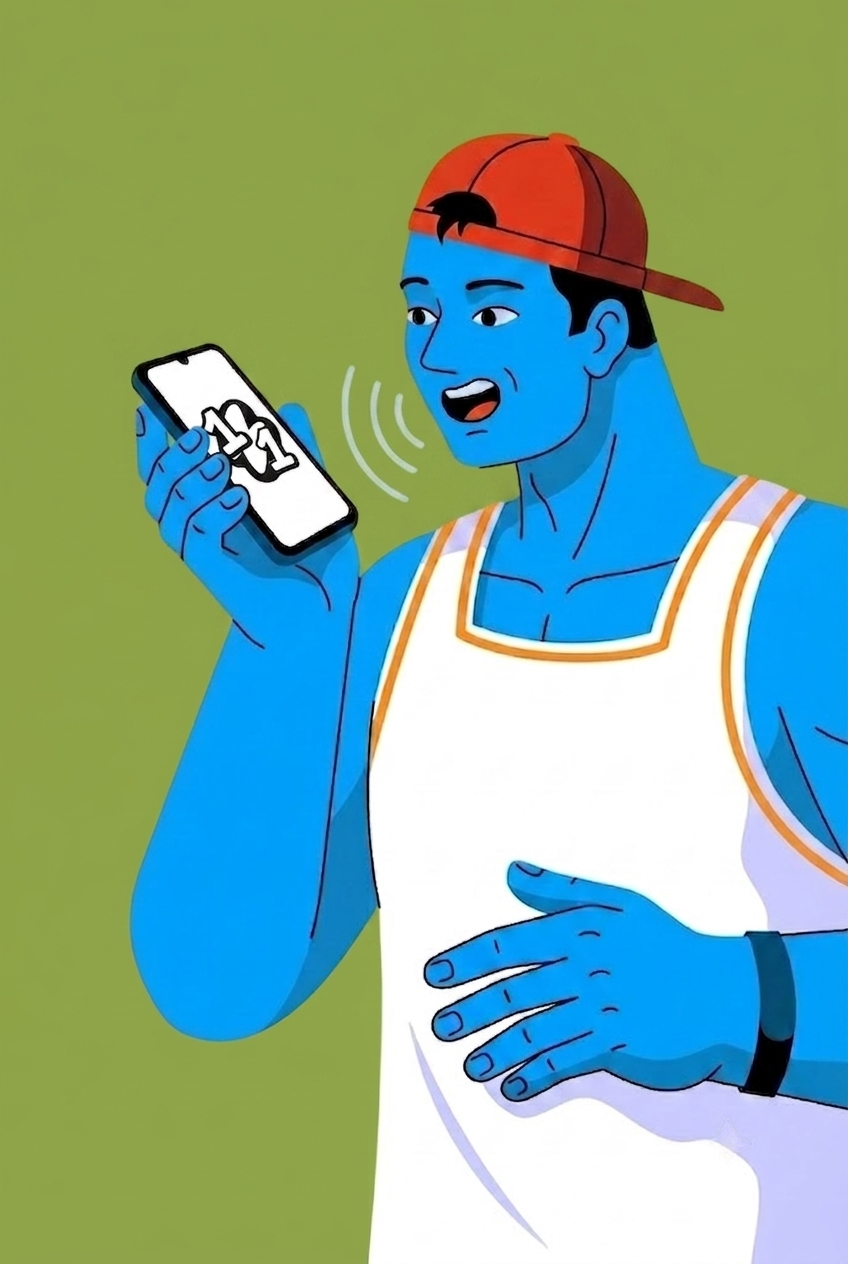
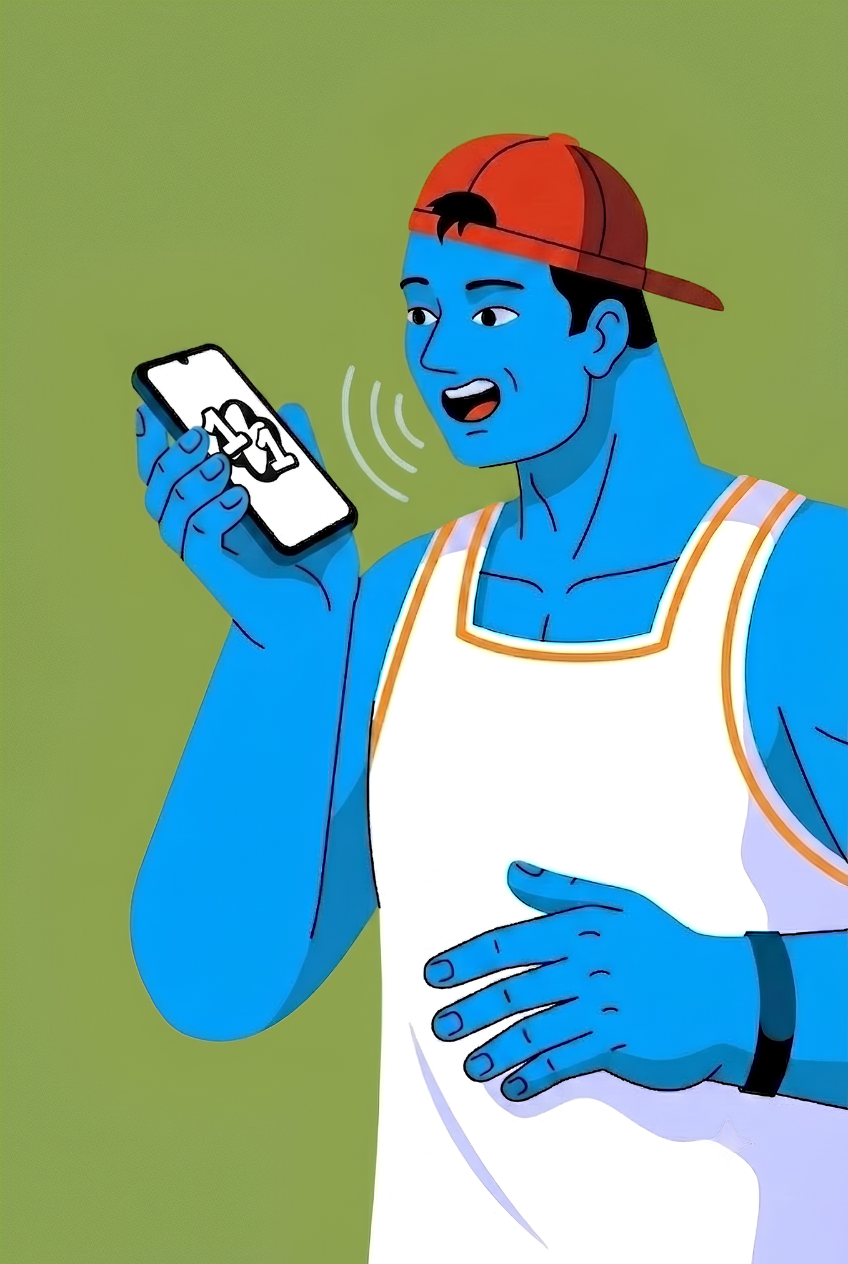
Polish Duo branding and home/settings UI.
Rename remaining One One copy to Duo, refresh onboarding art, expand accent colors, and tweak home status/presence and bubble layout.

diff --git a/app/lib/features/identity/ui/identity_home_screen.dart b/app/lib/features/identity/ui/identity_home_screen.dart
@@ -3015,11 +3015,13 @@ class _IdentityHomeScreenState extends State<IdentityHomeScreen>
                         // Middle band: ephemeral bubbles sit here (own=right,
                         // others=left). Empty Expanded keeps layout stable so
                         // the feed doesn't jump the carousel when it appears.
+                        // Align to bottom so bubbles sit lower (near the status
+                        // hint) instead of floating mid-screen.
                         Expanded(
                           child: Padding(
                             padding: EdgeInsets.symmetric(horizontal: 16.w),
                             child: Align(
-                              alignment: Alignment.center,
+                              alignment: Alignment.bottomCenter,
                               child: SingleChildScrollView(
                                 reverse: true,
                                 physics: const ClampingScrollPhysics(),
@@ -3520,21 +3522,21 @@ class _StatusToggle extends StatelessWidget {
             ? 'Tap to go away'
             : 'Go online when someone is already live, or send a nudge to go together',
         child: SizedBox(
-          width: 72.w,
-          height: 48,
+          width: 58.w,
+          height: 40,
           child: Material(
             color: Colors.transparent,
             child: InkWell(
               onTap: busy || !enabled ? null : onToggle,
-              borderRadius: BorderRadius.circular(24),
+              borderRadius: BorderRadius.circular(20),
               child: Center(
                 child: Container(
                   width: double.infinity,
-                  height: 30.h,
+                  height: 24.h,
                   padding: EdgeInsets.all(2.w),
                   decoration: BoxDecoration(
                     color: const Color.fromRGBO(255, 255, 255, 0.12),
-                    borderRadius: BorderRadius.circular(18.r),
+                    borderRadius: BorderRadius.circular(14.r),
                     border: Border.all(
                       color: const Color.fromRGBO(255, 255, 255, 0.22),
                     ),
@@ -3548,13 +3550,13 @@ class _StatusToggle extends StatelessWidget {
                             ? Alignment.centerRight
                             : Alignment.centerLeft,
                         child: Container(
-                          width: 34.w,
+                          width: 26.w,
                           height: double.infinity,
                           decoration: BoxDecoration(
                             color: online
                                 ? const Color(0xff7CFF6B)
                                 : Colors.white,
-                            borderRadius: BorderRadius.circular(14.r),
+                            borderRadius: BorderRadius.circular(11.r),
                           ),
                         ),
                       ),
@@ -3563,24 +3565,24 @@ class _StatusToggle extends StatelessWidget {
                           Expanded(
                             child: Center(
                               // Matches the profile-picture away moon badge
-                              // (Icons.dark_mode_rounded @ ~9.sp).
+                              // (Icons.dark_mode_rounded @ ~13.sp).
                               child: Icon(
                                 Icons.dark_mode_rounded,
                                 color: online
                                     ? Colors.white54
                                     : const Color(0xff2a2a2a),
-                                size: 9.sp,
+                                size: 13.sp,
                               ),
                             ),
                           ),
                           Expanded(
                             child: Center(
                               child: busy
-                                  ? Text('…', style: TextStyle(fontSize: 11.sp))
+                                  ? Text('…', style: TextStyle(fontSize: 10.sp))
                                   : online
                                   ? Text(
                                       '🟢',
-                                      style: TextStyle(fontSize: 11.sp),
+                                      style: TextStyle(fontSize: 10.sp),
                                     )
                                   : const SizedBox.shrink(),
                             ),
@@ -3794,8 +3796,7 @@ class _FriendChip extends StatelessWidget {
                 right: -4,
                 bottom: -2,
                 // Away state uses a Material "dark mode" glyph inside a
-                // small circular badge (subtle shadow) instead of the old
-                // 🌙 emoji, sized down noticeably from the previous glyph.
+                // circular badge (subtle shadow) instead of the old 🌙 emoji.
                 // NOTE: no HTML/CSS reference file was available in this
                 // session, so colors are mapped to existing app tokens
                 // (avatar-chip background + white70 icon) rather than the
@@ -3804,8 +3805,8 @@ class _FriendChip extends StatelessWidget {
                 child: live
                     ? Text('🟢', style: TextStyle(fontSize: 14.sp))
                     : Container(
-                        width: 15.w,
-                        height: 15.w,
+                        width: 20.w,
+                        height: 20.w,
                         alignment: Alignment.center,
                         decoration: BoxDecoration(
                           shape: BoxShape.circle,
@@ -3821,7 +3822,7 @@ class _FriendChip extends StatelessWidget {
                         child: Icon(
                           Icons.dark_mode_rounded,
                           color: Colors.white70,
-                          size: 9.sp,
+                          size: 13.sp,
                         ),
                       ),
               ),

diff --git a/app/lib/features/identity/ui/settings_screen.dart b/app/lib/features/identity/ui/settings_screen.dart
@@ -707,25 +707,41 @@ class _SettingsScreenState extends State<SettingsScreen> {
                     subtitle: 'Choose the color used across Duo.',
                   ),
                   const SizedBox(height: 16),
-                  Wrap(
-                    spacing: 12,
-                    runSpacing: 12,
-                    children: [
-                      for (final option in accentOptions)
-                        _ColorSwatch(
-                          option: option,
-                          selected: _accentColorKey == option.key,
-                          enabled: !_saving,
-                          onSelected: () {
-                            setState(() {
-                              _accentColorKey = option.key;
-                              _hasUnsavedAccentPreview =
-                                  option.key != _persistedAccentColorKey;
-                            });
-                            AccentThemeController.setAccentKey(option.key);
-                          },
-                        ),
-                    ],
+                  // Two rows of six — 12 accents fill both runs on phone widths.
+                  LayoutBuilder(
+                    builder: (context, constraints) {
+                      const columns = 6;
+                      const spacing = 12.0;
+                      final swatchSize =
+                          (constraints.maxWidth - spacing * (columns - 1)) /
+                          columns;
+                      return Wrap(
+                        spacing: spacing,
+                        runSpacing: spacing,
+                        children: [
+                          for (final option in accentOptions)
+                            SizedBox(
+                              width: swatchSize,
+                              height: swatchSize,
+                              child: _ColorSwatch(
+                                option: option,
+                                selected: _accentColorKey == option.key,
+                                enabled: !_saving,
+                                onSelected: () {
+                                  setState(() {
+                                    _accentColorKey = option.key;
+                                    _hasUnsavedAccentPreview =
+                                        option.key != _persistedAccentColorKey;
+                                  });
+                                  AccentThemeController.setAccentKey(
+                                    option.key,
+                                  );
+                                },
+                              ),
+                            ),
+                        ],
+                      );
+                    },
                   ),
                   const _SurfaceDivider(),
                   SwitchListTile.adaptive(
@@ -1790,33 +1806,37 @@ class _ColorSwatch extends StatelessWidget {
         button: true,
         selected: selected,
         label: '${option.label} accent',
-        child: SizedBox.square(
-          dimension: 48,
-          child: InkWell(
-            onTap: enabled ? onSelected : null,
-            customBorder: const CircleBorder(),
-            child: Center(
-              child: AnimatedContainer(
-                duration: const Duration(milliseconds: 180),
-                width: 36,
-                height: 36,
-                decoration: BoxDecoration(
-                  color: option.color,
-                  shape: BoxShape.circle,
-                  border: Border.all(
-                    color: selected ? Colors.white : Colors.transparent,
-                    width: 3,
+        child: InkWell(
+          onTap: enabled ? onSelected : null,
+          customBorder: const CircleBorder(),
+          child: LayoutBuilder(
+            builder: (context, constraints) {
+              final side = constraints.biggest.shortestSide;
+              final circle = (side * 0.75).clamp(28.0, 40.0);
+              final checkSize = (circle * 0.53).clamp(14.0, 20.0);
+              return Center(
+                child: AnimatedContainer(
+                  duration: const Duration(milliseconds: 180),
+                  width: circle,
+                  height: circle,
+                  decoration: BoxDecoration(
+                    color: option.color,
+                    shape: BoxShape.circle,
+                    border: Border.all(
+                      color: selected ? Colors.white : Colors.transparent,
+                      width: 3,
+                    ),
                   ),
+                  child: selected
+                      ? Icon(
+                          Icons.check_rounded,
+                          color: Colors.black,
+                          size: checkSize,
+                        )
+                      : null,
                 ),
-                child: selected
-                    ? const Icon(
-                        Icons.check_rounded,
-                        color: Colors.black,
-                        size: 19,
-                      )
-                    : null,
-              ),
-            ),
+              );
+            },
           ),
         ),
       ),

diff --git a/app/lib/app/accent_theme.dart b/app/lib/app/accent_theme.dart
@@ -20,6 +20,11 @@ const List<AccentOption> accentOptions = [
   AccentOption(key: 'amber', label: 'Amber', color: Color(0xffffb020)),
   AccentOption(key: 'pink', label: 'Pink', color: Color(0xffec4899)),
   AccentOption(key: 'teal', label: 'Teal', color: Color(0xff00b8a9)),
+  AccentOption(key: 'indigo', label: 'Indigo', color: Color(0xff6366f1)),
+  AccentOption(key: 'orange', label: 'Orange', color: Color(0xffff7a3d)),
+  AccentOption(key: 'mint', label: 'Mint', color: Color(0xff34d399)),
+  AccentOption(key: 'yellow', label: 'Yellow', color: Color(0xffeab308)),
+  AccentOption(key: 'cyan', label: 'Cyan', color: Color(0xff22d3ee)),
 ];
 
 Color accentColorForKey(String key) {

diff --git a/app/lib/app/setup_permission_screen.dart b/app/lib/app/setup_permission_screen.dart
@@ -29,12 +29,12 @@ const Map<_SetupStep, _StepVisual> _stepVisuals = {
     backgroundAsset: 'assets/Onboarding1.png',
   ),
   _SetupStep.notification: _StepVisual(
-    iconColor: Color(0xffdb8a1e),
+    iconColor: Color(0xff7a4fc9),
     icon: Icons.notifications_rounded,
     backgroundAsset: 'assets/Onboarding3.png',
   ),
   _SetupStep.background: _StepVisual(
-    iconColor: Color(0xff7a4fc9),
+    iconColor: Color(0xffdb8a1e),
     icon: Icons.battery_saver_rounded,
     backgroundAsset: 'assets/Onboarding2.png',
   ),

diff --git a/backend/src/routes/groupRoutes.ts b/backend/src/routes/groupRoutes.ts
@@ -38,7 +38,7 @@ export function createGroupRoutes() {
 
   // HTTPS invite links are Android App Links when domain verification is
   // configured. The redirect remains a fallback for devices that have not
-  // verified the domain yet but do have One One installed.
+  // verified the domain yet but do have Duo installed.
   router.get("/invite/:inviteCode", (request, response) => {
     const inviteCode = joinInviteSchema.shape.inviteCode.parse(
       request.params.inviteCode

diff --git a/backend/src/notifications/notificationService.ts b/backend/src/notifications/notificationService.ts
@@ -148,7 +148,7 @@ export async function sendFriendLiveNotification(input: FriendLiveInput) {
   const pushResult = await sendPushToTokens({
     tokens: recipientDevices.map((device) => device.fcmToken),
     title: `🟢 ${senderName} is live`,
-    body: "Tap to open One One 🎙",
+    body: "Tap to open Duo 🎙",
     data: {
       type: "friend_live",
       groupId: input.groupId,

diff --git a/README.md b/README.md
@@ -1,4 +1,4 @@
-# One One
+# Duo
 
 Android-first Flutter + LiveKit walkie-talkie app for a small private friend group.
 
@@ -36,7 +36,7 @@ Current state: Phase 1 audio spike, Phase 3 Firebase anonymous identity/device r
 
 Android FCM registration is active. Push, 3/5/10-second ring, and six-second
 voice nudges are available from the home-screen nudge button. Timed rings use
-One One's own two-chime sound and an exact-length PCM buffer instead of the
+Duo's own two-chime sound and an exact-length PCM buffer instead of the
 phone ringtone. Ring and voice nudges use a native foreground playback service
 so Flutter does not need to be running. See
 `requirements/android-nudge-delivery.md` before deployment.

diff --git a/backend/README.md b/backend/README.md
@@ -1,4 +1,4 @@
-# One One Token API
+# Duo Token API
 
 Node/TypeScript backend for the Flutter + LiveKit walkie-talkie app.
 
